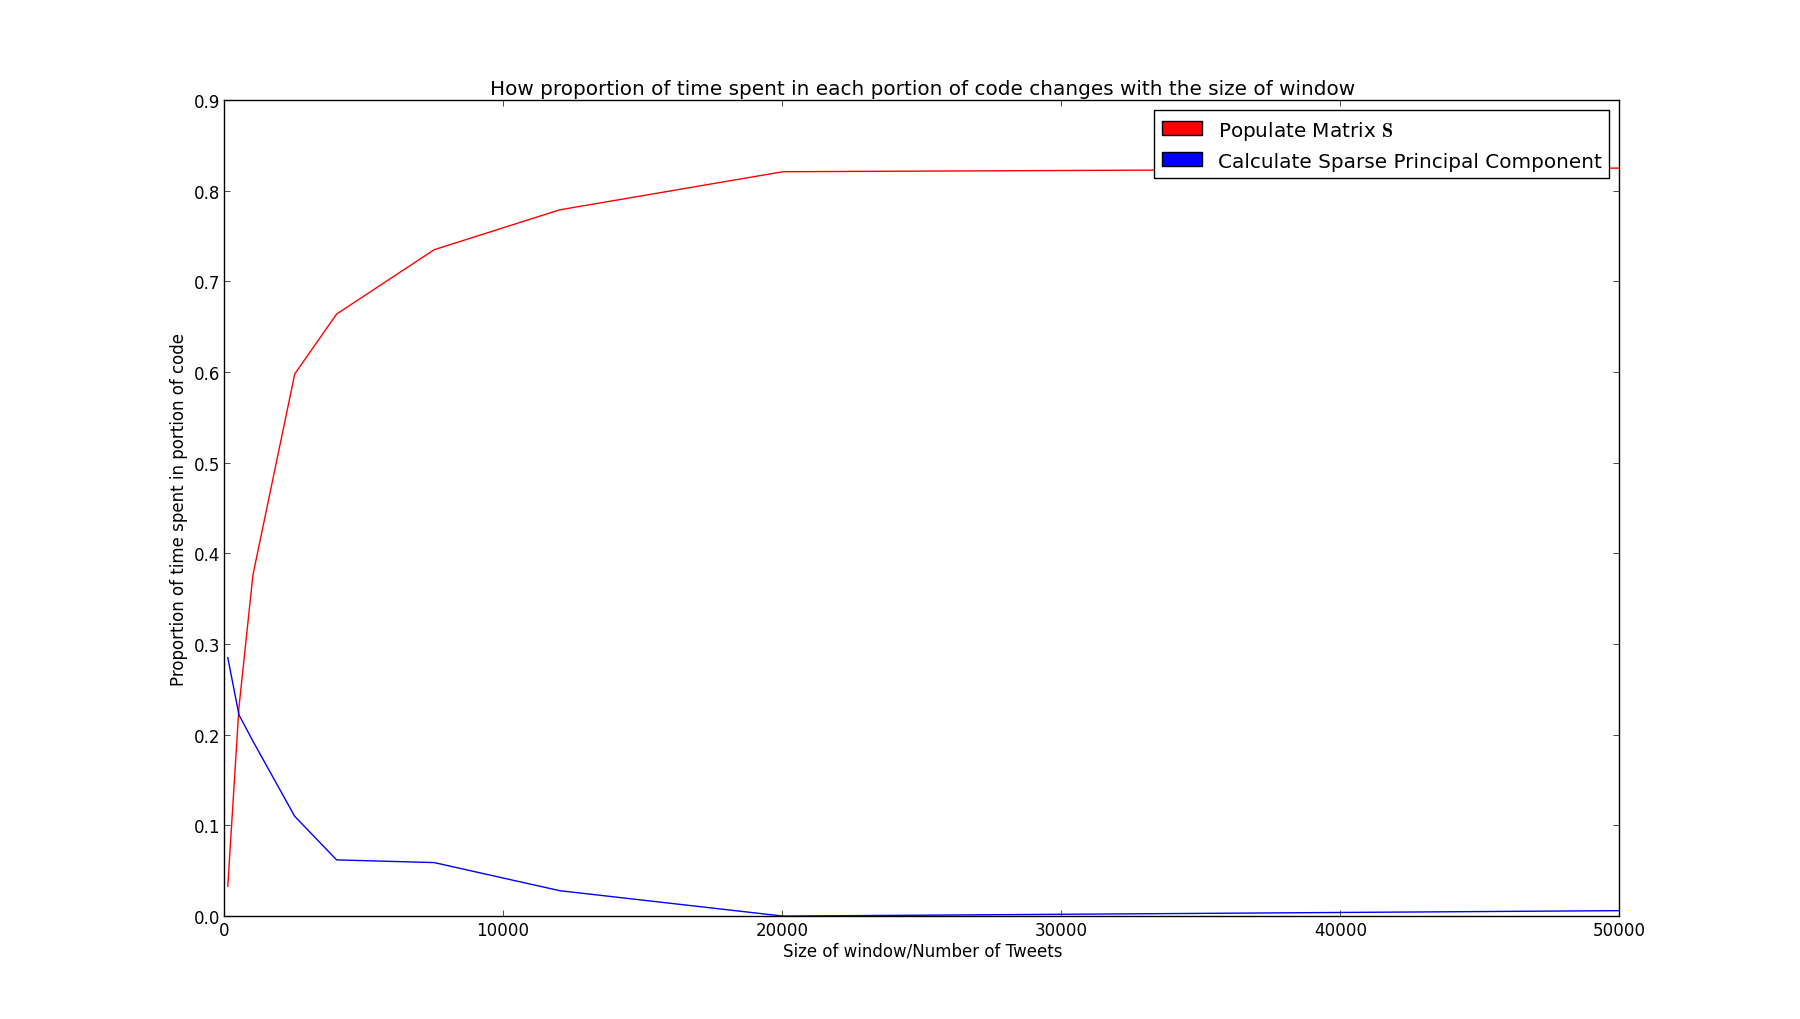
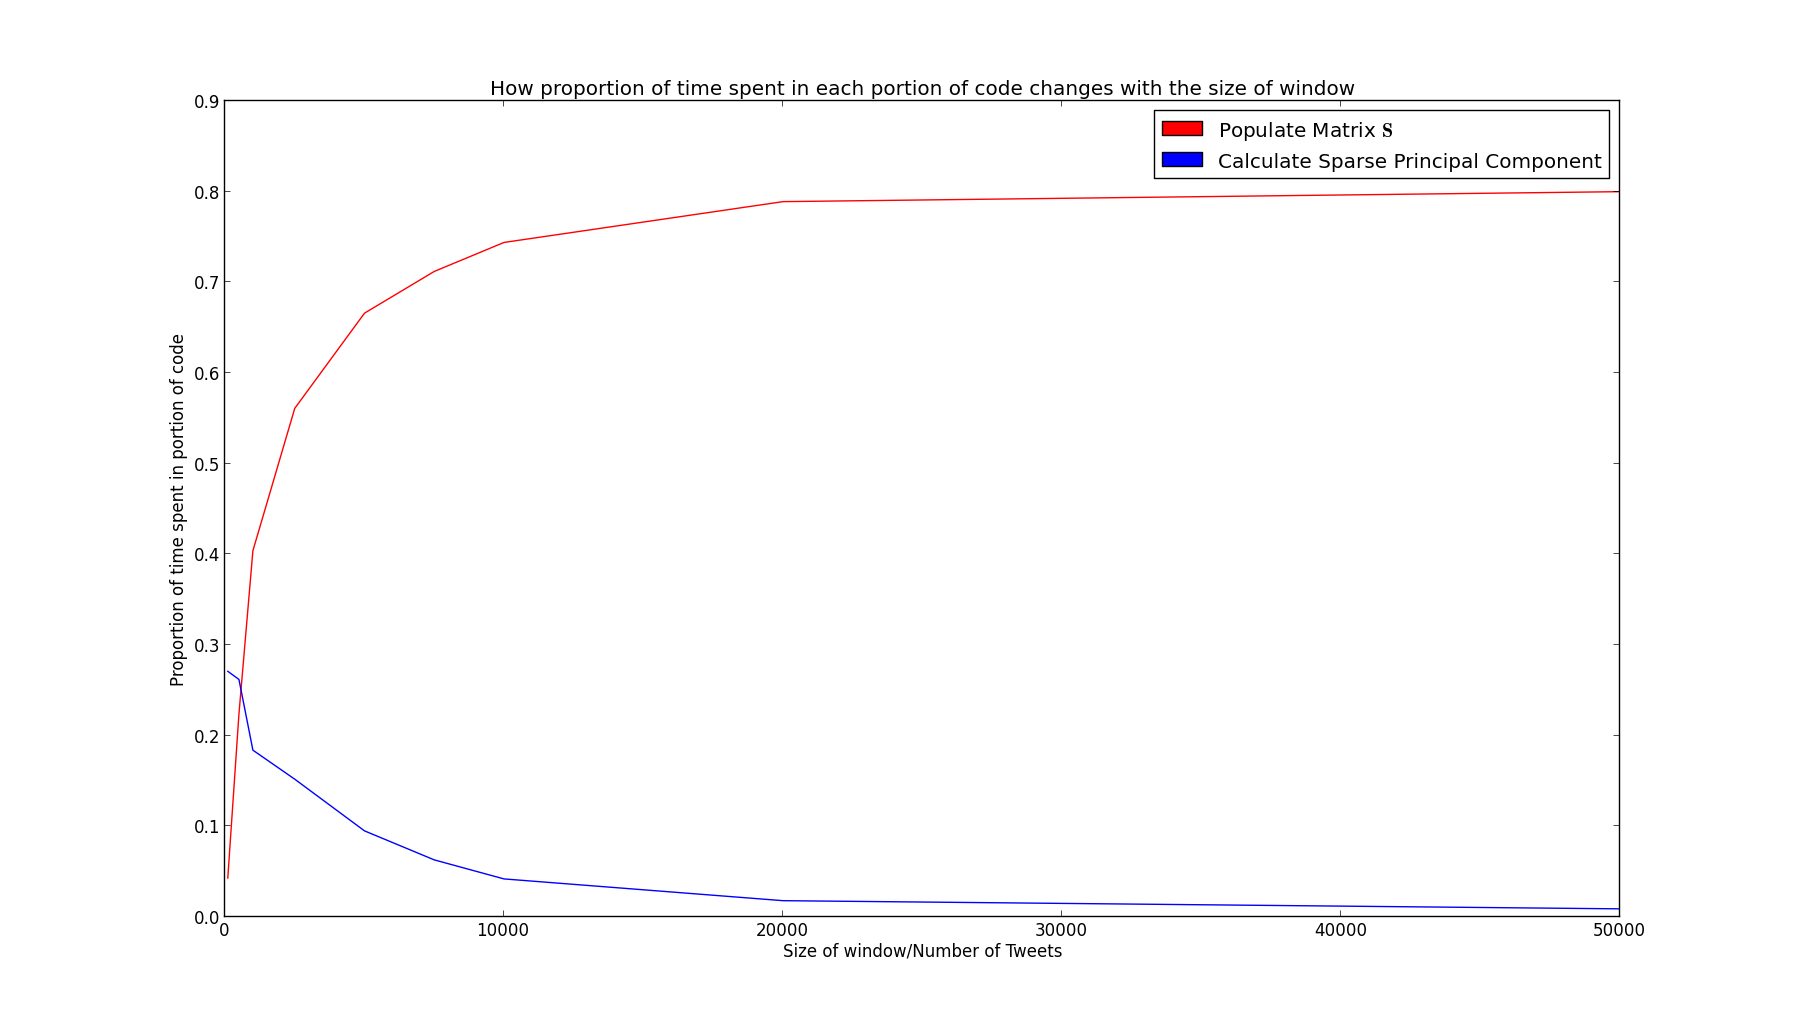
Fixed figure for Prop Time

diff --git a/report/InterimReport.tex b/report/InterimReport.tex
@@ -1298,19 +1298,11 @@ ListOfEigenvalues.Append($\mathbf{\Lambda}_\text{new}$)\\
 }
 \end{algorithm}
 
-
-
-%TODO Must change this part. The covariance matrix must be calculated every time. 
-\begin{comment}
-Computation time is saved in two ways. Firstly, the co-occurrence matrix doesn't need to be computed directly every single time. This is significant if the window size, $W$, is much larger than the batch size, $K$, reducing it from $O(Wn^2)$ to $O(Kn^2)$, which is not a major improvement but still makes a difference. The most significant improvement is seen in the validation of the old principal components. This does a quick check to see whether the variance explained by the Sparse PCs still qualifies them to be the dominant components and, if so, the algorithm doesn't actually have to be implemented for that particular iteration, saving computation time. This means that, on average, for a buffered streaming input, the output rate of PCs can increase for much smaller batches. The great thing about this is that smaller batches means better resolution in time and it means that for large volume applications that the algorithm will terminate much faster.
-\end{comment}
-
 \subsection{Time Per Calculation}
 As streaming is being considered, which is an online process, it is very useful to see how long each calculation of a sparse principal component takes. It is also useful to know how this time varies, on average, with the size of the window being considered.
 \subsubsection{Complexity}
-%TODO
-The complexity of the final algorithm can be split into various parts and can be calculated as the complexity given as a number of operations per section. The sections are labeled in the comments of the algorithm above as (a)-(e). The loading of the new Twitter data (a) is merely linear $O(m)$, where $m$ is the number of Tweets per window. Loading the bag of words (b) has a time complexity of $O(N\log(N))$, where $N$ is the total number of words from the Tweets. This is simply because the algorithm first builds a dictionary of all the words and then sorts them to get the top $n$. Populating the matrix (c) has a time complexity of $O(mp)$, where $p$ is the average number of words in a single Tweet. Building the co-occurrence matrix (d) is of the order $O(mn^2)$ and the final Sparse PCA algorithm depends on which algorithm is used, but in this case is an iterative algorithm. 
 %TODO Check complexity of TPower
+The complexity of the final algorithm can be split into various parts and can be calculated as the complexity given as a number of operations per section. The sections are labeled in the comments of the algorithm above as (a)-(e). The loading of the new Twitter data (a) is merely linear $O(m)$, where $m$ is the number of Tweets per window. Loading the bag of words (b) has a time complexity of $O(N\log(N))$, where $N$ is the total number of words from the Tweets. This is simply because the algorithm first builds a dictionary of all the words and then sorts them to get the top $n$. Populating the matrix (c) has a time complexity of $O(mp)$, where $p$ is the average number of words in a single Tweet. Building the co-occurrence matrix (d) is of the order $O(mn^2)$ and the final Sparse PCA algorithm depends on which algorithm is used, but in this case is an iterative algorithm. 
 
 It should be noted that these complexities represent different types of operations and therefore a combined complexity has not been given. 
 \subsubsection{Proportion of Time Spent in Each Portion}
